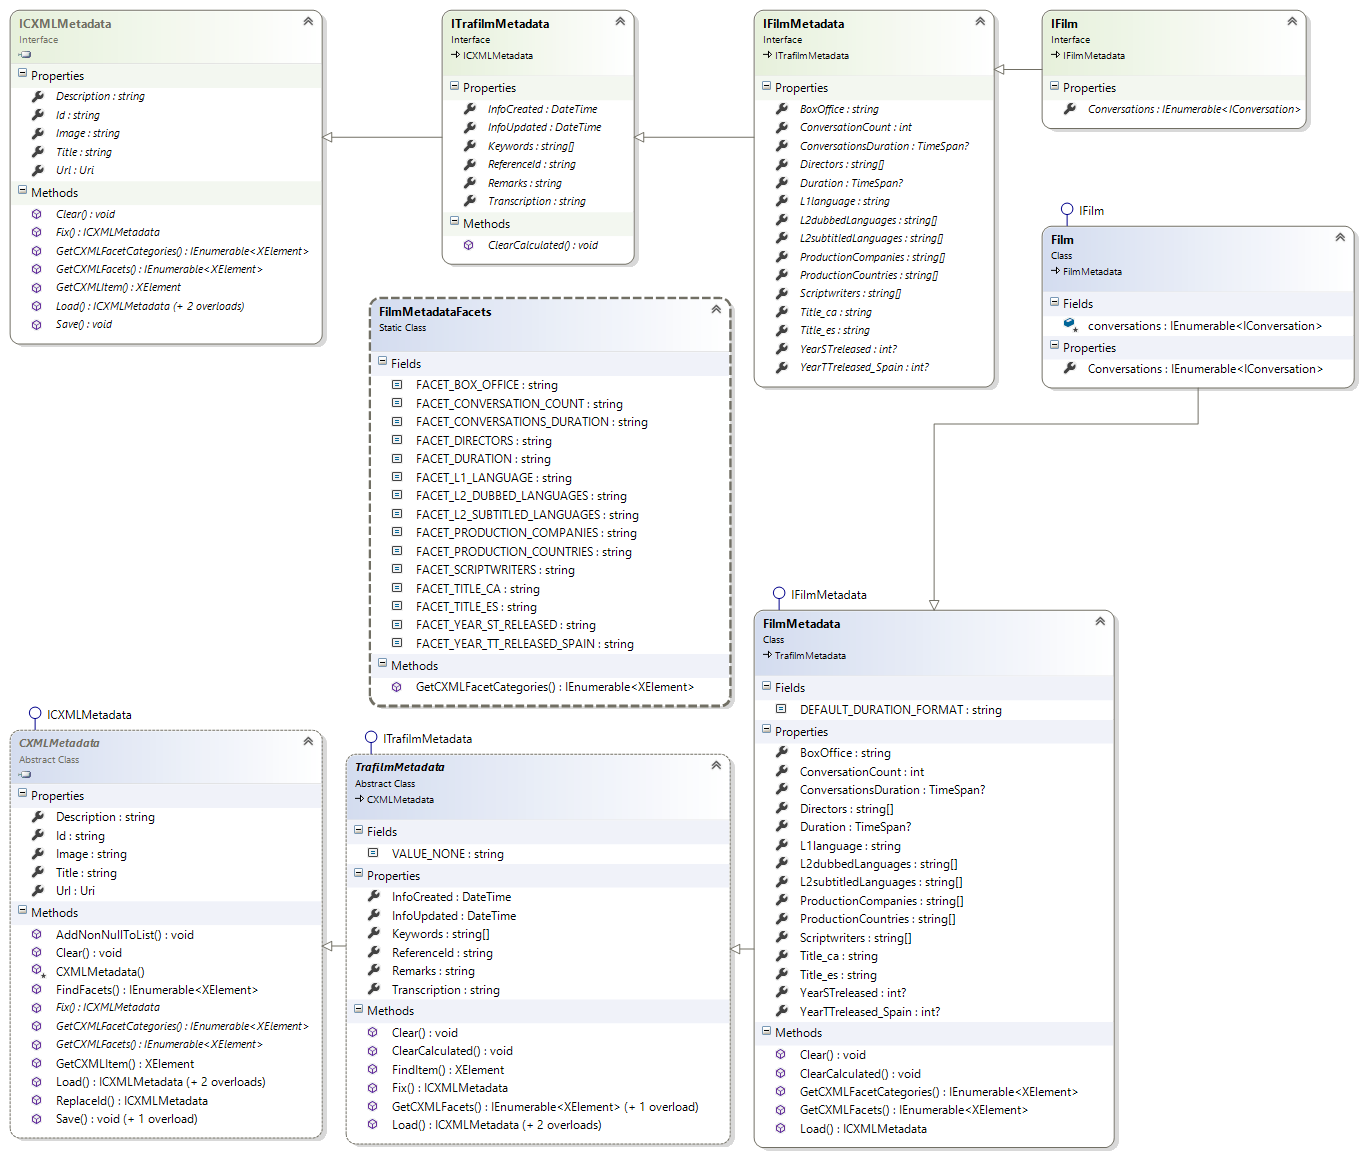
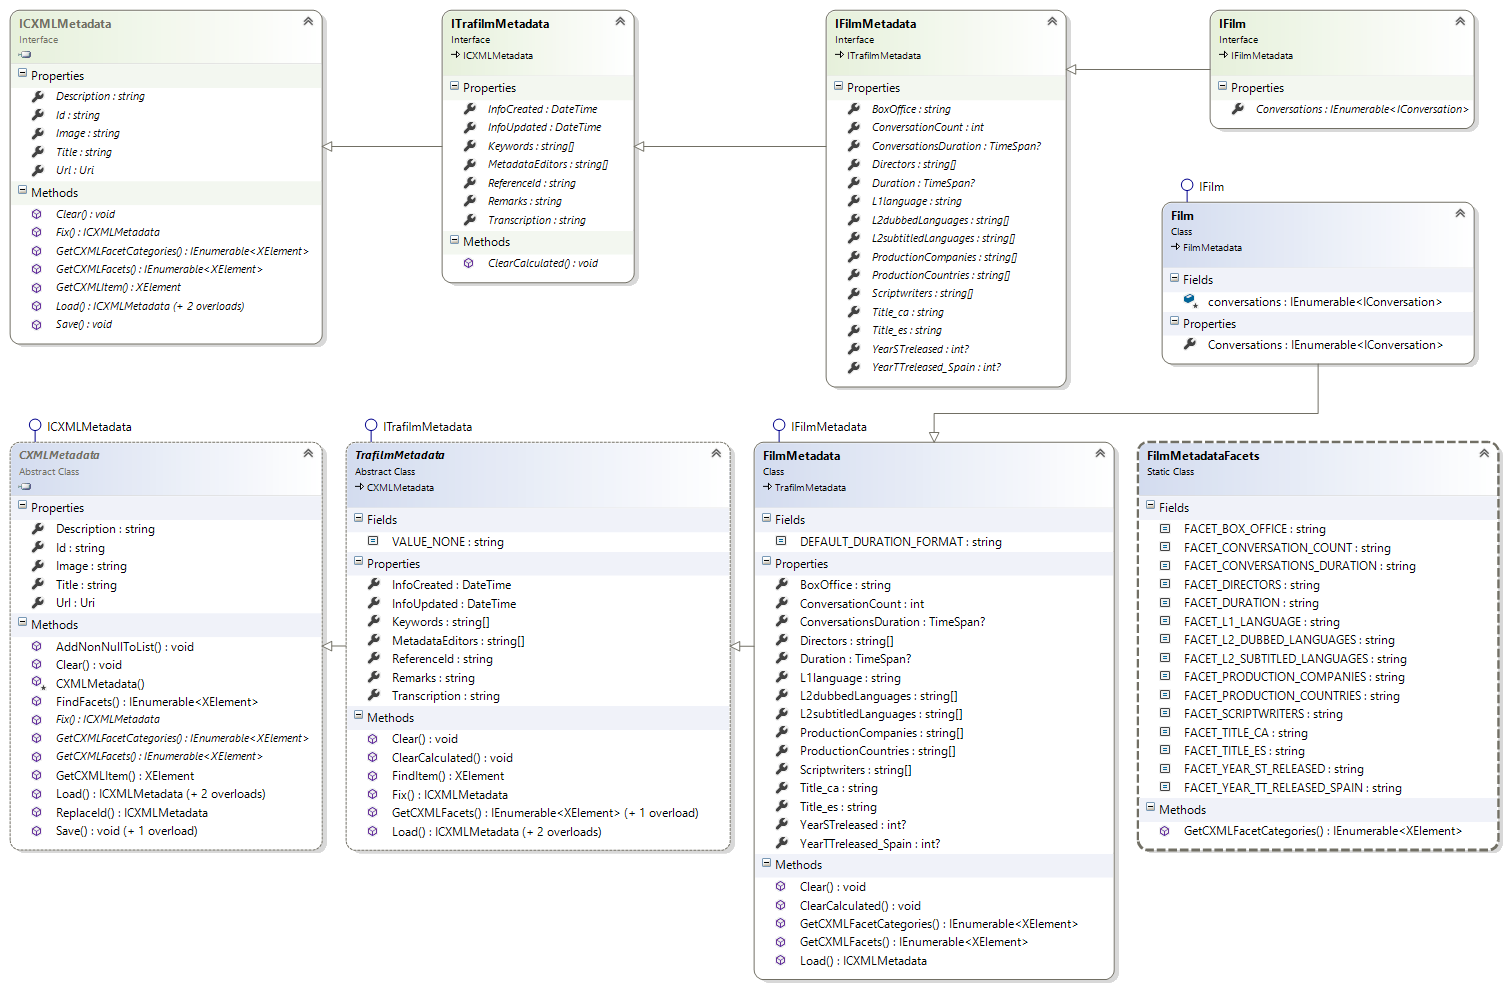
- Added "string[] MetadataEditors"  property to ITrafilmMetadata - Updated Diagrams - Exported diagram images

Changed region(s): [[0.0, 0.0, 1.0, 1.0], [0.4622, 0.0304, 0.493, 0.2126], [0.6779, 0.4251, 0.7087, 0.4555]]

diff --git a/Metadata/TrafilmMetadata.cs b/Metadata/TrafilmMetadata.cs
@@ -1,6 +1,6 @@
 //Project: Trafilm.Metadata (https://github.com/Zoomicon/Trafilm.Metadata)
 //Filename: TrafilmMetadtata.cs
-//Version: 20160606
+//Version: 20160608
 
 using Metadata.CXML;
 
@@ -25,14 +25,16 @@ namespace Trafilm.Metadata
 
     public string ReferenceId { get; set; }
 
-    public DateTime InfoCreated { get; set; }
-    public DateTime InfoUpdated { get; set; }
-
     public string Transcription { get; set; }
 
     public string[] Keywords { get; set; }
 
     public string Remarks { get; set; }
+
+    public DateTime InfoCreated { get; set; }
+    public DateTime InfoUpdated { get; set; }
+
+    public string[] MetadataEditors { get; set; }
 
     #endregion
 
@@ -54,14 +56,16 @@ namespace Trafilm.Metadata
 
       ReferenceId = "";
 
-      InfoCreated = DateTime.UtcNow;
-      InfoUpdated = DateTime.UtcNow;
-
       Transcription = "";
 
       Keywords = new string[] { };
 
       Remarks = "";
+
+      InfoCreated = DateTime.UtcNow;
+      InfoUpdated = DateTime.UtcNow;
+
+      MetadataEditors = new string[] { };
 
       ClearCalculated();
     }
@@ -78,13 +82,17 @@ namespace Trafilm.Metadata
       IEnumerable<XElement> facets = FindFacets(item);
 
       ReferenceId = facets.CXMLFacetStringValue(TrafilmMetadataFacets.FACET_REFERENCE_ID);
-      InfoCreated = facets.CXMLFacetDateTimeValue(TrafilmMetadataFacets.FACET_INFO_CREATED);
-      InfoUpdated = facets.CXMLFacetDateTimeValue(TrafilmMetadataFacets.FACET_INFO_UPDATED);
 
       Transcription = facets.CXMLFacetStringValue(TrafilmMetadataFacets.FACET_TRANSCRIPTION);
 
       Keywords = facets.CXMLFacetStringValues(TrafilmMetadataFacets.FACET_KEYWORDS);
+
       Remarks = facets.CXMLFacetStringValue(TrafilmMetadataFacets.FACET_REMARKS);
+
+      InfoCreated = facets.CXMLFacetDateTimeValue(TrafilmMetadataFacets.FACET_INFO_CREATED);
+      InfoUpdated = facets.CXMLFacetDateTimeValue(TrafilmMetadataFacets.FACET_INFO_UPDATED);
+
+      MetadataEditors = facets.CXMLFacetStringValues(TrafilmMetadataFacets.FACET_METADATA_EDITORS);
 
       return this;
     }
@@ -122,14 +130,16 @@ namespace Trafilm.Metadata
 
       AddNonNullToList(facets, CXML.MakeStringFacet(TrafilmMetadataFacets.FACET_REFERENCE_ID, ReferenceId));
 
-      AddNonNullToList(facets, CXML.MakeDateTimeFacet(TrafilmMetadataFacets.FACET_INFO_CREATED, InfoCreated));
-      AddNonNullToList(facets, CXML.MakeDateTimeFacet(TrafilmMetadataFacets.FACET_INFO_UPDATED, InfoUpdated));
-
       AddNonNullToList(facets, CXML.MakeStringFacet(TrafilmMetadataFacets.FACET_TRANSCRIPTION, Transcription));
 
       AddNonNullToList(facets, CXML.MakeStringFacet(TrafilmMetadataFacets.FACET_KEYWORDS, Keywords));
 
       AddNonNullToList(facets, CXML.MakeStringFacet(TrafilmMetadataFacets.FACET_REMARKS, Remarks));
+
+      AddNonNullToList(facets, CXML.MakeDateTimeFacet(TrafilmMetadataFacets.FACET_INFO_CREATED, InfoCreated));
+      AddNonNullToList(facets, CXML.MakeDateTimeFacet(TrafilmMetadataFacets.FACET_INFO_UPDATED, InfoUpdated));
+
+      AddNonNullToList(facets, CXML.MakeStringFacet(TrafilmMetadataFacets.FACET_METADATA_EDITORS, MetadataEditors));
 
       return facets;
     }

diff --git a/Metadata/TrafilmMetadataFacets.cs b/Metadata/TrafilmMetadataFacets.cs
@@ -1,6 +1,6 @@
 //Project: Trafilm.Metadata (https://github.com/Zoomicon/Trafilm.Metadata)
 //Filename: TrafilmMetadataFacets.cs
-//Version: 20160606
+//Version: 20160608
 
 using Metadata.CXML;
 using System.Collections.Generic;
@@ -15,11 +15,17 @@ namespace Trafilm.Metadata
     #region --- Constants ---
 
     public const string FACET_REFERENCE_ID = "Reference Id";
+
+    public const string FACET_TRANSCRIPTION = "Transcription";
+
+    public const string FACET_KEYWORDS = "Keywords";
+
+    public const string FACET_REMARKS = "Remarks";
+
     public const string FACET_INFO_CREATED = "Info created";
     public const string FACET_INFO_UPDATED = "Info updated";
-    public const string FACET_TRANSCRIPTION = "Transcription";
-    public const string FACET_KEYWORDS = "Keywords";
-    public const string FACET_REMARKS = "Remarks";
+
+    public const string FACET_METADATA_EDITORS = "Metadata Editors";
 
     #endregion
 
@@ -49,6 +55,7 @@ namespace Trafilm.Metadata
       result.Add(CXML.MakeFacetCategory(TrafilmMetadataFacets.FACET_INFO_CREATED, CXML.VALUE_DATETIME, CXML.DEFAULT_DATETIME_FORMAT, isFilterVisible: false, isMetadataVisible: true, isWordWheelVisible: false));
       result.Add(CXML.MakeFacetCategory(TrafilmMetadataFacets.FACET_INFO_UPDATED, CXML.VALUE_DATETIME, CXML.DEFAULT_DATETIME_FORMAT, isFilterVisible: true, isMetadataVisible: true, isWordWheelVisible: false));
 
+      result.Add(CXML.MakeFacetCategory(TrafilmMetadataFacets.FACET_METADATA_EDITORS, CXML.VALUE_STRING, null, isFilterVisible: true, isMetadataVisible: true, isWordWheelVisible: true));
       return result;
     }
 

diff --git a/Metadata/ITrafilmMetadata.cs b/Metadata/ITrafilmMetadata.cs
@@ -1,6 +1,6 @@
 //Project: Trafilm.Metadata (https://github.com/Zoomicon/Trafilm.Metadata)
 //Filename: ITrafilmMetadata.cs
-//Version: 20160606
+//Version: 20160608
 
 using Metadata.CXML;
 
@@ -17,14 +17,16 @@ namespace Trafilm.Metadata
     //Facets//
     string ReferenceId { get; set; } //PivotViewer collection tools seem to generate sequential IDs, so we need a separate Code to reference an item
 
-    DateTime InfoCreated { get; set; }
-    DateTime InfoUpdated { get; set; }
-
     string Transcription { get; set; }
 
     string[] Keywords { get; set; }
 
     string Remarks { get; set; }
+
+    DateTime InfoCreated { get; set; }
+    DateTime InfoUpdated { get; set; }
+
+    string[] MetadataEditors { get; set; }
 
     #endregion
 
